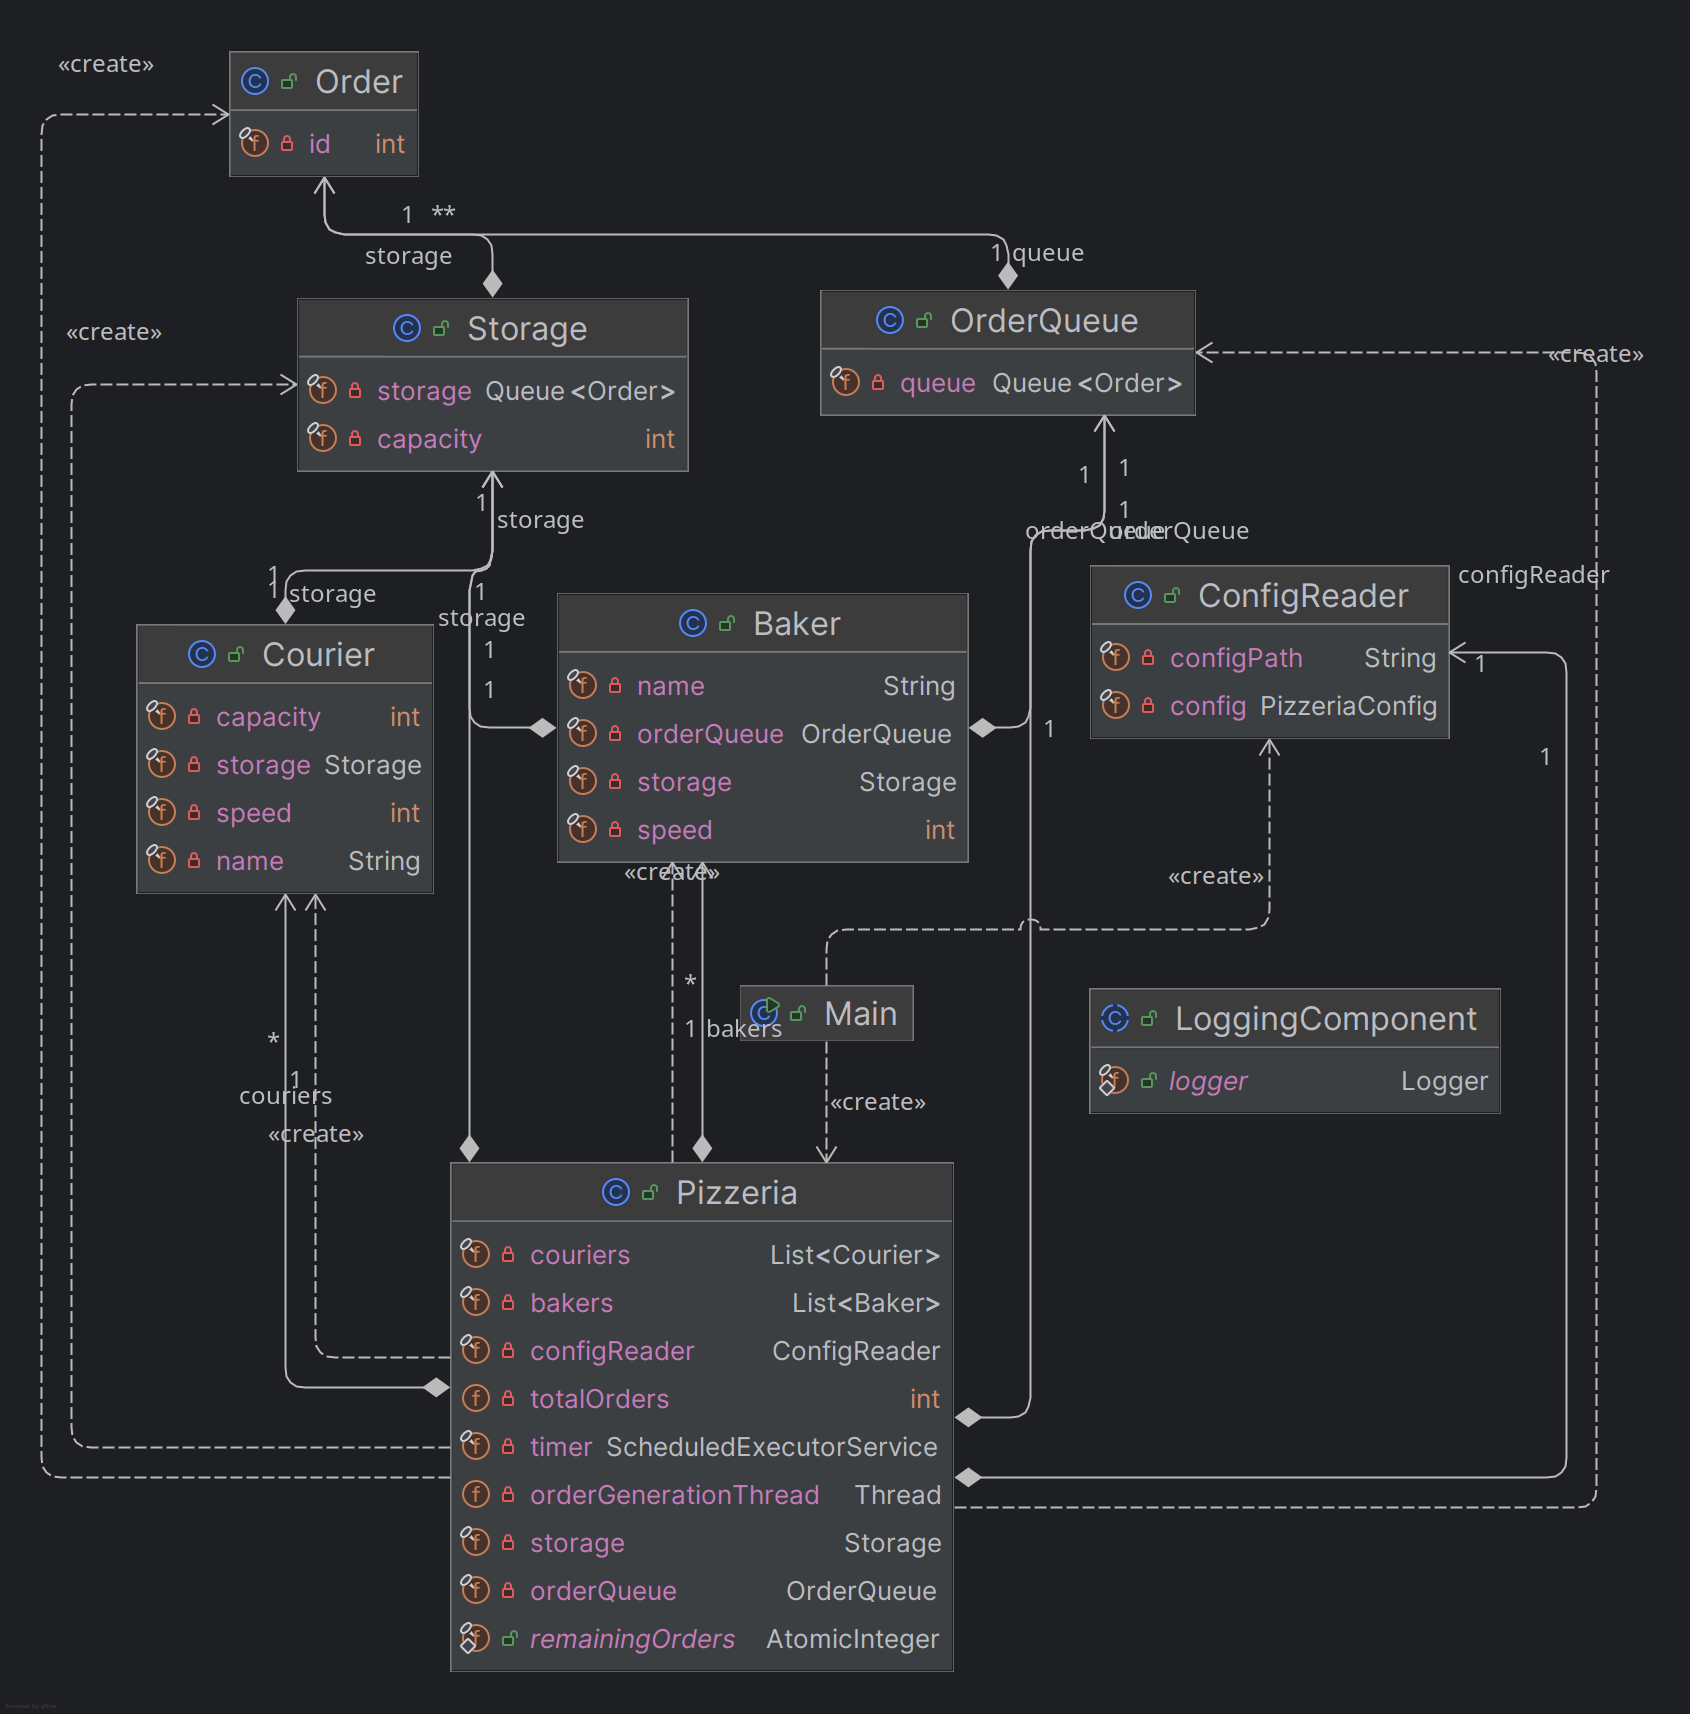
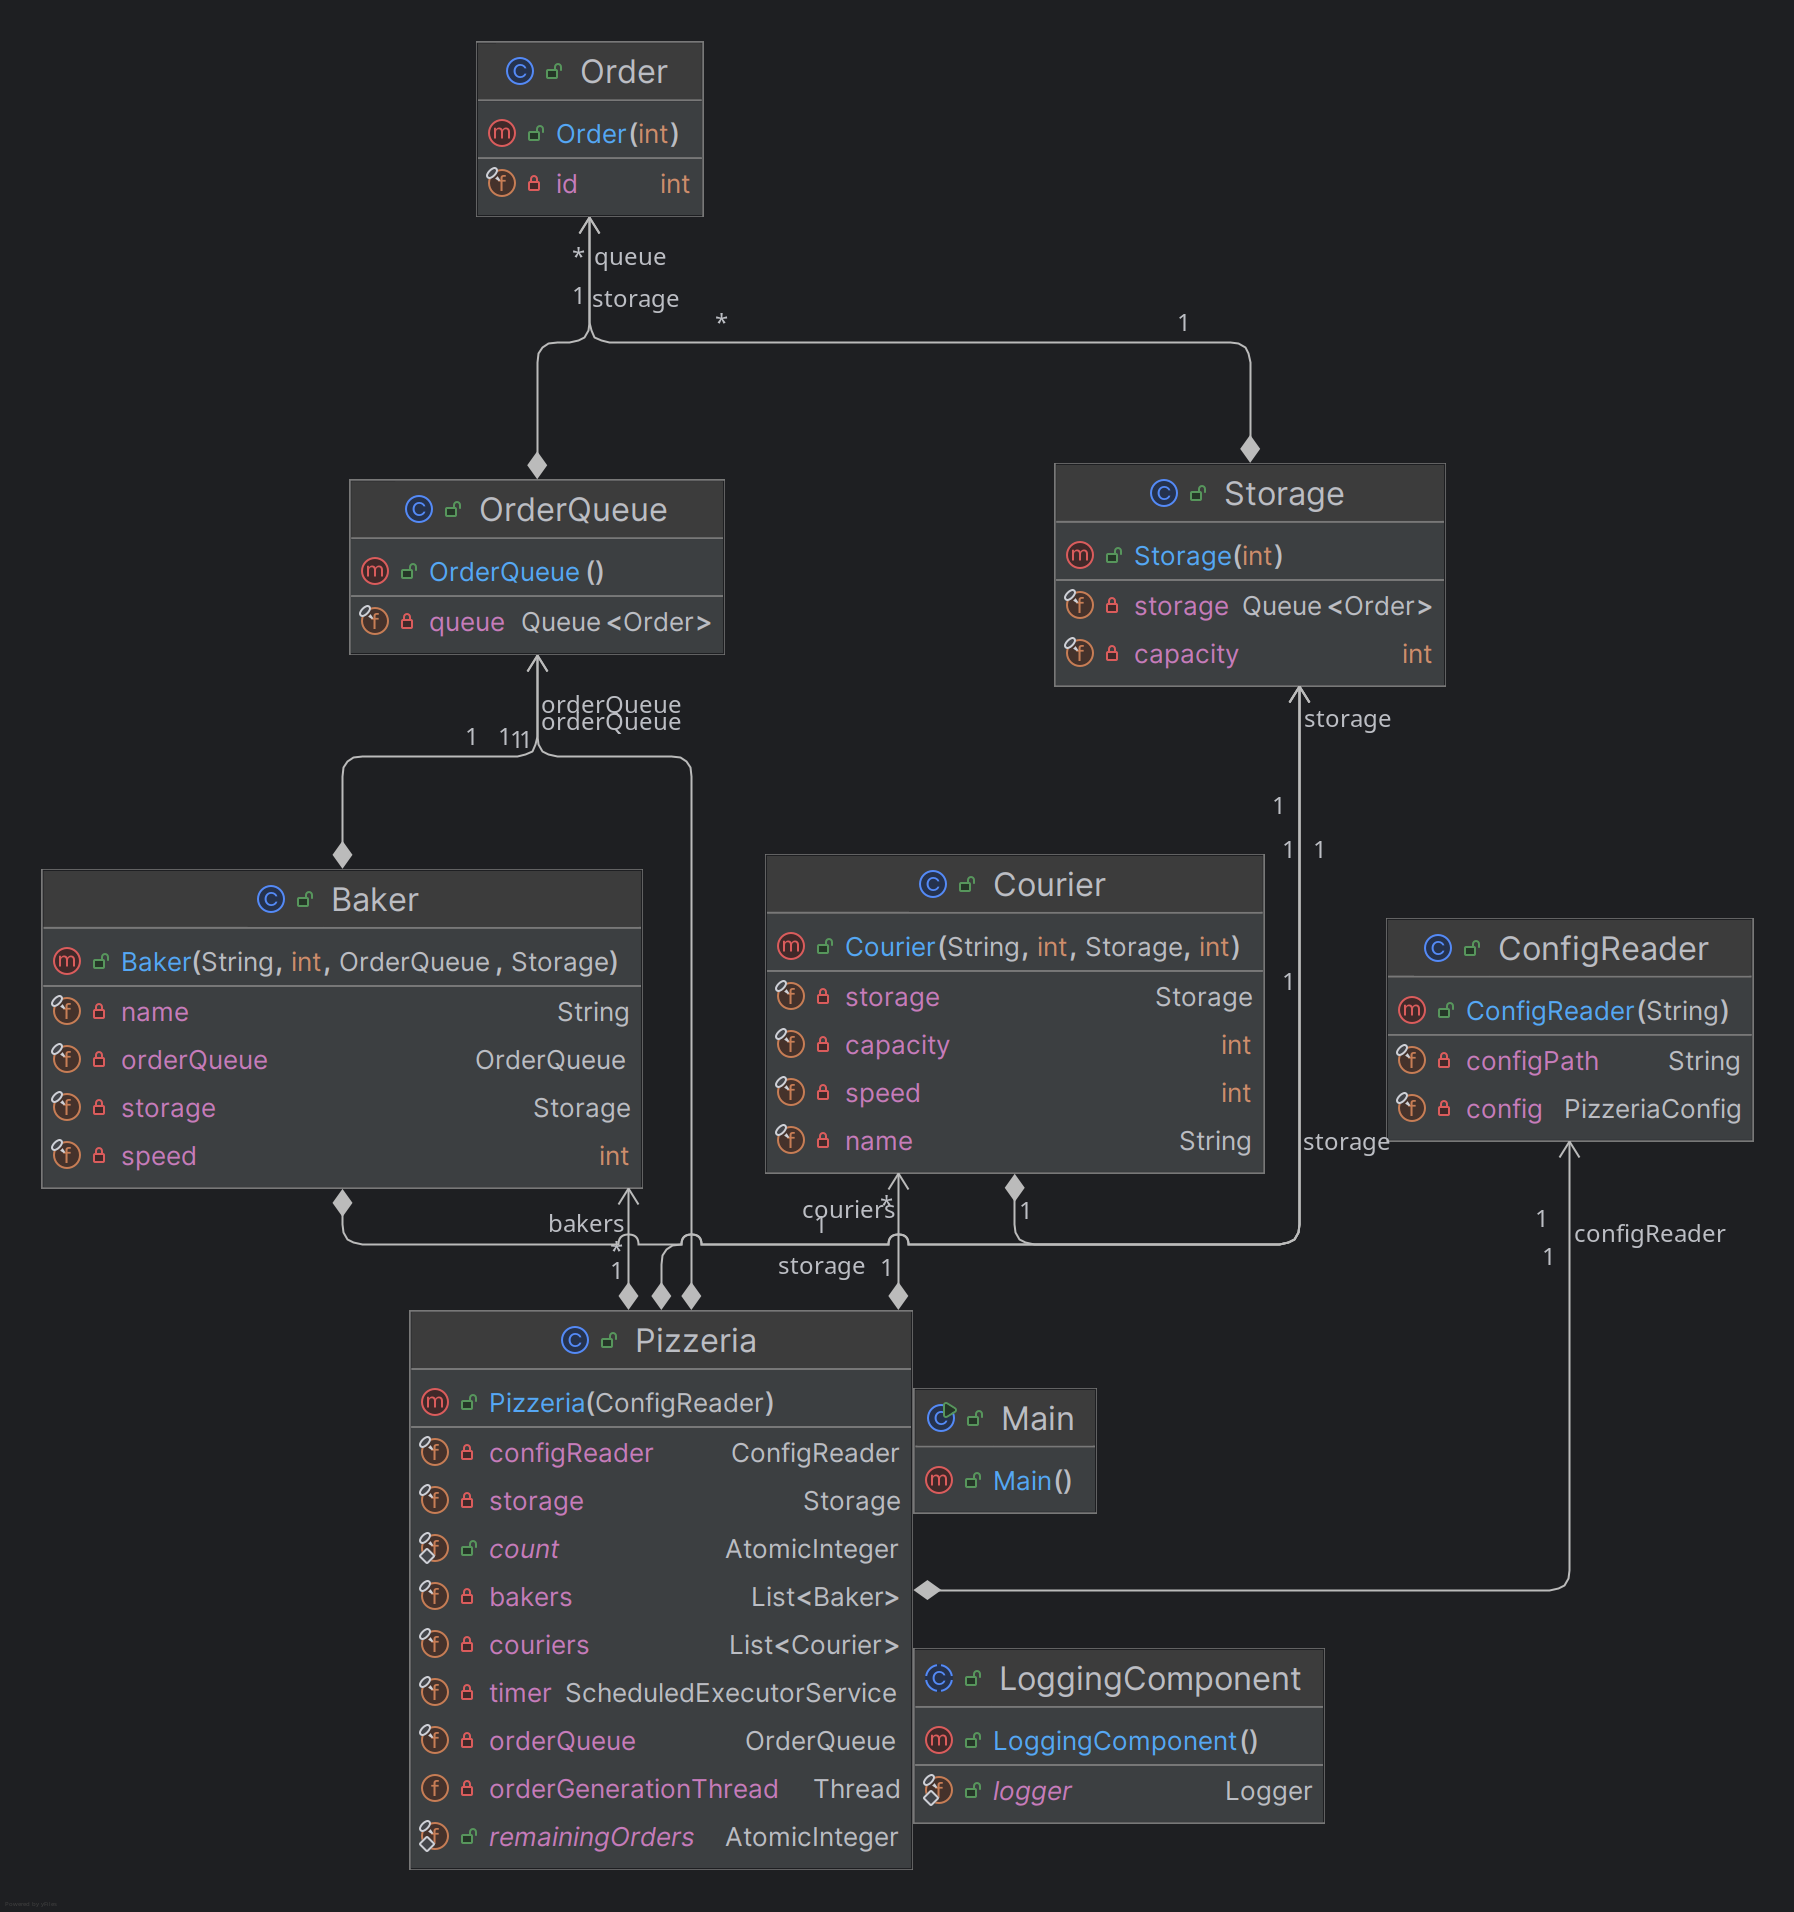
full

diff --git a/Task_2_2_1/src/test/java/UnitTests.java b/Task_2_2_1/src/test/java/UnitTests.java
@@ -1,28 +1,17 @@
 import org.junit.jupiter.api.*;
 import pizzeria.config.ConfigReader;
 import pizzeria.model.Pizzeria;
+import java.io.IOException;
 import java.nio.file.*;
 import static org.junit.jupiter.api.Assertions.*;
 
-class PizzeriaSystemTest {
+class UnitTests {
     private static final String CONFIG_PATH = "config.json";
     private static final String LOG_PATH = "logs/pizzeria.log";
     private static String originalConfig;
 
-    @BeforeAll
-    static void backupConfig() throws Exception {
-        // Сохраняем оригинальный конфиг
-        originalConfig = Files.readString(Paths.get(CONFIG_PATH));
-    }
-
-    @AfterAll
-    static void restoreConfig() throws Exception {
-        // Восстанавливаем конфиг после всех тестов
-        Files.write(Paths.get(CONFIG_PATH), originalConfig.getBytes());
-    }
-
     @Test
-    void fullOrderLifecycleTest() throws Exception {
+    void fullOrderLifecycleTest() throws IOException, InterruptedException {
         // 1. Подготовка тестового конфига
         String testConfig = """
         {
@@ -45,6 +34,7 @@ class PizzeriaSystemTest {
         try {
             Pizzeria pizzeria = new Pizzeria(configReader);
             pizzeria.start();
+            pizzeria.addOrders(4);
         } catch (Exception e) {
             fail("Ошибка запуска пиццерии", e);
         }
@@ -54,10 +44,6 @@ class PizzeriaSystemTest {
 
         // 5. Проверка логов
         String logs = Files.readString(path);
-        verifyLogs(logs);
-    }
-
-    private void verifyLogs(String logs) {
         for (int orderId = 1; orderId <= 3; orderId++) {
             String cookedPattern = "Пекарь TestBaker приготовил заказ №" + orderId;
             String deliveredPattern = "Курьер TestCourier доставил заказ №" + orderId;
@@ -67,5 +53,17 @@ class PizzeriaSystemTest {
             assertTrue(logs.contains(deliveredPattern),
                     "Не найдена доставка заказа " + orderId);
         }
+    }
+
+    @BeforeAll
+    static void backupConfig() throws Exception {
+        // Сохраняем оригинальный конфиг
+        originalConfig = Files.readString(Paths.get(CONFIG_PATH));
+    }
+
+    @AfterAll
+    static void restoreConfig() throws Exception {
+        // Восстанавливаем конфиг после всех тестов
+        Files.write(Paths.get(CONFIG_PATH), originalConfig.getBytes());
     }
 }

diff --git a/Task_2_2_1/src/main/java/pizzeria/model/Pizzeria.java b/Task_2_2_1/src/main/java/pizzeria/model/Pizzeria.java
@@ -5,6 +5,7 @@ import pizzeria.workers.*;
 import java.io.IOException;
 import java.util.ArrayList;
 import java.util.List;
+import java.util.Random;
 import java.util.concurrent.*;
 import java.util.concurrent.atomic.AtomicInteger;
 import static pizzeria.logger.LoggingComponent.logger;
@@ -16,7 +17,7 @@ public class Pizzeria {
     private final List<Courier> couriers;
     private final ScheduledExecutorService timer;
     private final ConfigReader configReader;
-    private int totalOrders;
+    public static final AtomicInteger count = new AtomicInteger(0);
     public static final AtomicInteger remainingOrders = new AtomicInteger(0);
     private Thread orderGenerationThread;
 
@@ -47,7 +48,7 @@ public class Pizzeria {
     public void start() {
         scheduleShutdown();
         initializeWorkers();
-        generateOrders();
+        addOrders(configReader.getOrderCount());
     }
 
     private void initializeWorkers() {
@@ -61,13 +62,12 @@ public class Pizzeria {
         timer.schedule(this::shutdown, workTime, TimeUnit.MILLISECONDS);
     }
 
-    private void generateOrders() {
-        totalOrders = configReader.getOrderCount();
-        remainingOrders.set(totalOrders);
+    public void addOrders(int numberOfOrders) {
+        remainingOrders.set(remainingOrders.get() + numberOfOrders);
 
         orderGenerationThread = new Thread(() -> {
             try {
-                generateOrdersLoop();
+                addOrdersLoop(numberOfOrders);
             } catch (InterruptedException e) {
                 Thread.currentThread().interrupt();
             }
@@ -75,12 +75,12 @@ public class Pizzeria {
         orderGenerationThread.start();
     }
 
-    private void generateOrdersLoop() throws InterruptedException {
-        for (int i = 0; i < totalOrders; i++) {
+    private synchronized void addOrdersLoop(int numberOfOrders) throws InterruptedException {
+        for (int i = 0; i < numberOfOrders; i++) {
             if (Thread.currentThread().isInterrupted()) {
                 break;
             }
-            orderQueue.addOrder(new Order(i + 1));
+            orderQueue.addOrder(new Order(count.incrementAndGet()));
             Thread.sleep(1000);
         }
     }

diff --git a/Task_2_2_1/src/main/java/pizzeria/main/Main.java b/Task_2_2_1/src/main/java/pizzeria/main/Main.java
@@ -10,6 +10,7 @@ public class Main {
             ConfigReader configReader = new ConfigReader("config.json");
             Pizzeria pizzeria = new Pizzeria(configReader);
             pizzeria.start();
+            pizzeria.addOrders(3);
         } catch (Exception e) {
             logger.warn("Ошибка при инициализации конфига: {}", e.getMessage());
         }
